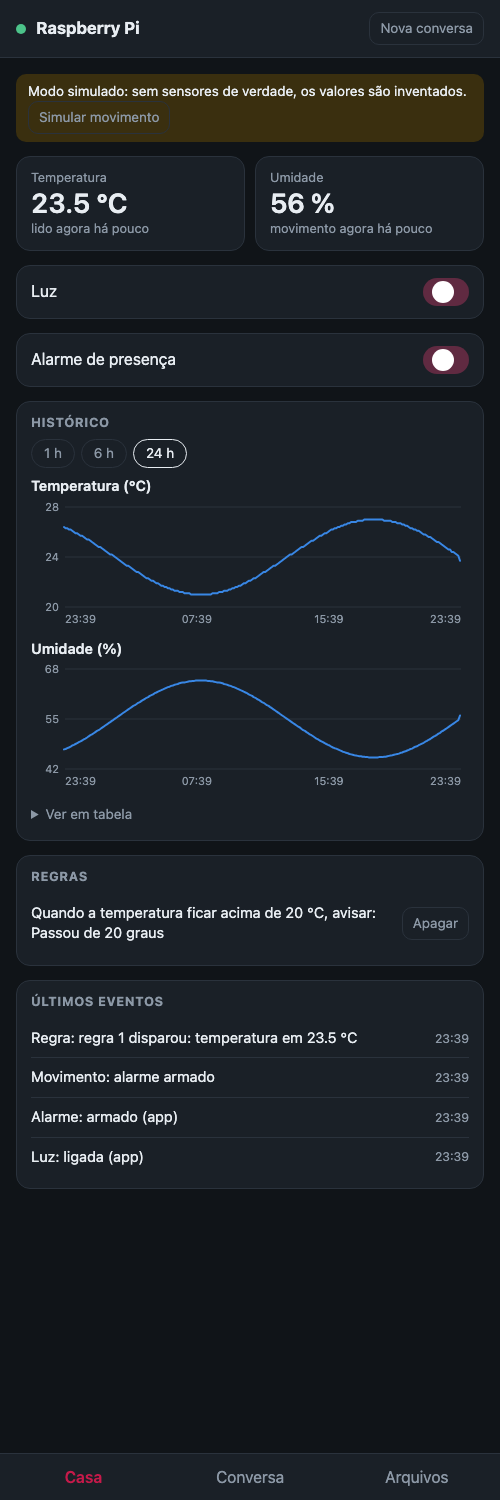
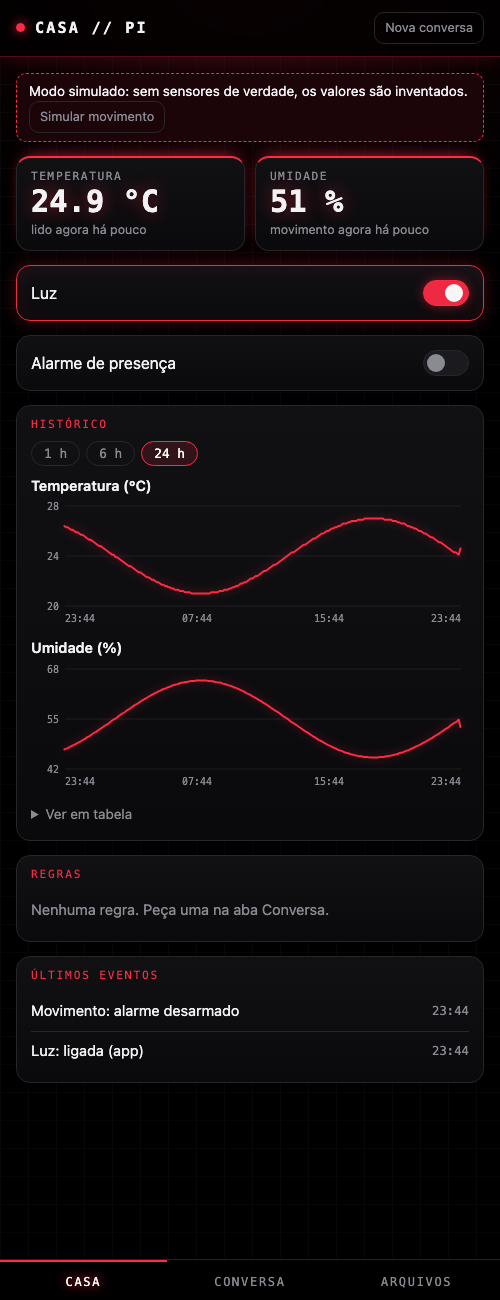
Tema escuro do app: preto com vermelho neon

diff --git a/pagina.html b/pagina.html
@@ -7,117 +7,136 @@
 <meta name="apple-mobile-web-app-capable" content="yes">
 <meta name="apple-mobile-web-app-title" content="Pi">
 <meta name="apple-mobile-web-app-status-bar-style" content="black-translucent">
-<meta name="theme-color" content="#101418">
+<meta name="theme-color" content="#000000">
 <title>Pi</title>
 <style>
   :root {
-    --fundo: #101418; --painel: #1a2027; --borda: #2a323c; --texto: #e8edf2; --fraco: #8c98a6;
-    --destaque: #c51a4a; --meu: #c51a4a; --aviso: #3a2f0f; --erro: #e5737b; --ok: #4cc38a;
-    --serie: #3987e5; --grade: #2a323c;
+    color-scheme: dark;
+    --fundo: #000000; --painel: #0a0a0c; --painel-2: #111114; --borda: #26262b; --borda-viva: #4d0f1a;
+    --texto: #f2f2f4; --fraco: #8a8a93;
+    --destaque: #ff2a45; --destaque-escuro: #b3001b; --brilho: rgba(255, 42, 69, .45);
+    --aviso: #1c0509; --erro: #ff6b7d; --serie: #ff2a45; --grade: #1e1e22;
+    --mono: ui-monospace, "SF Mono", Menlo, Consolas, monospace;
   }
-  @media (prefers-color-scheme: light) {
-    :root {
-      --fundo: #f4f5f7; --painel: #ffffff; --borda: #d9dde3; --texto: #171b21; --fraco: #667180;
-      --aviso: #fff3cf; --erro: #c0303b; --ok: #1f8f5c;
-      --serie: #2a78d6; --grade: #e3e6ea;
-    }
-  }
-  * { box-sizing: border-box; }
+  * { box-sizing: border-box; -webkit-tap-highlight-color: transparent; }
   html, body { height: 100%; margin: 0; }
   body {
-    font: 16px/1.4 system-ui, -apple-system, sans-serif; background: var(--fundo); color: var(--texto);
+    font: 16px/1.4 system-ui, -apple-system, sans-serif; color: var(--texto);
+    background:
+      radial-gradient(120% 60% at 50% -10%, rgba(255, 42, 69, .16), transparent 60%),
+      linear-gradient(rgba(255, 255, 255, .025) 1px, transparent 1px) 0 0 / 100% 28px,
+      linear-gradient(90deg, rgba(255, 255, 255, .025) 1px, transparent 1px) 0 0 / 28px 100%,
+      var(--fundo);
     display: flex; flex-direction: column; height: 100dvh; overflow: hidden;
   }
   header {
     display: flex; align-items: center; gap: 10px; padding: 12px 16px;
-    padding-top: calc(12px + env(safe-area-inset-top)); background: var(--painel); border-bottom: 1px solid var(--borda);
+    padding-top: calc(12px + env(safe-area-inset-top));
+    background: rgba(0, 0, 0, .75); backdrop-filter: blur(10px); -webkit-backdrop-filter: blur(10px);
+    border-bottom: 1px solid var(--borda-viva); box-shadow: 0 1px 18px rgba(255, 42, 69, .18);
   }
-  header h1 { font-size: 1.05rem; margin: 0; flex: 1; }
-  #ponto { width: 10px; height: 10px; border-radius: 50%; background: var(--fraco); }
-  #ponto.on { background: var(--ok); }
-  #ponto.off { background: var(--erro); }
-  button { font: inherit; color: inherit; border: 0; border-radius: 10px; padding: 10px 14px; background: var(--destaque); color: #fff; }
-  button.leve { background: transparent; color: var(--fraco); border: 1px solid var(--borda); padding: 6px 10px; font-size: .85rem; }
-  button:disabled { opacity: .45; }
+  header h1 { font: 600 .95rem var(--mono); letter-spacing: .14em; text-transform: uppercase; margin: 0; flex: 1; }
+  #ponto { width: 9px; height: 9px; border-radius: 50%; border: 1px solid var(--fraco); }
+  #ponto.on { background: var(--destaque); border-color: var(--destaque); box-shadow: 0 0 10px 2px var(--brilho); }
+  #ponto.off { background: transparent; border-color: var(--fraco); }
+  button {
+    font: inherit; color: #fff; border: 0; border-radius: 10px; padding: 10px 14px; cursor: pointer;
+    background: linear-gradient(180deg, var(--destaque), var(--destaque-escuro)); box-shadow: 0 0 14px var(--brilho);
+  }
+  button:active { filter: brightness(1.2); }
+  button.leve { background: transparent; box-shadow: none; color: var(--fraco); border: 1px solid var(--borda); padding: 6px 10px; font-size: .8rem; }
+  button:disabled { opacity: .4; box-shadow: none; }
   main { flex: 1; min-height: 0; display: flex; flex-direction: column; }
   .tela { flex: 1; min-height: 0; display: none; flex-direction: column; }
   .tela.ativa { display: flex; }
 
+  /* Conversa */
   #conversa { flex: 1; overflow-y: auto; padding: 16px; display: flex; flex-direction: column; gap: 8px; -webkit-overflow-scrolling: touch; }
-  .bolha { max-width: 85%; padding: 9px 13px; border-radius: 16px; white-space: pre-wrap; overflow-wrap: anywhere; }
-  .usuario { align-self: flex-end; background: var(--meu); color: #fff; border-bottom-right-radius: 4px; }
-  .agente { align-self: flex-start; background: var(--painel); border: 1px solid var(--borda); border-bottom-left-radius: 4px; }
-  .aviso { align-self: stretch; max-width: none; background: var(--aviso); border-radius: 12px; }
-  .aviso::before { content: "Aviso do Pi"; display: block; font-size: .75rem; color: var(--fraco); }
-  .erro { align-self: stretch; max-width: none; color: var(--erro); border: 1px solid var(--erro); border-radius: 12px; }
-  .nota { align-self: center; font-size: .8rem; color: var(--fraco); }
-  .cartao { align-self: stretch; background: var(--painel); border: 1px solid var(--borda); border-radius: 12px; padding: 12px; }
+  .bolha { max-width: 85%; padding: 9px 13px; border-radius: 14px; white-space: pre-wrap; overflow-wrap: anywhere; }
+  .usuario { align-self: flex-end; color: #fff; border-bottom-right-radius: 3px;
+             background: linear-gradient(180deg, var(--destaque), var(--destaque-escuro)); box-shadow: 0 0 16px var(--brilho); }
+  .agente { align-self: flex-start; background: var(--painel-2); border: 1px solid var(--borda); border-left: 2px solid var(--destaque); border-bottom-left-radius: 3px; }
+  .aviso { align-self: stretch; max-width: none; background: var(--aviso); border: 1px solid var(--destaque); border-radius: 12px; box-shadow: 0 0 18px rgba(255, 42, 69, .25); }
+  .aviso::before { content: "AVISO DO PI"; display: block; font: .7rem var(--mono); letter-spacing: .12em; color: var(--destaque); margin-bottom: 2px; }
+  .erro { align-self: stretch; max-width: none; color: var(--erro); background: transparent; border: 1px dashed var(--erro); border-radius: 12px; }
+  .nota { align-self: center; font: .75rem var(--mono); color: var(--fraco); }
+  .cartao { align-self: stretch; background: var(--painel-2); border: 1px solid var(--borda-viva); border-radius: 12px; padding: 12px; }
   .cartao .acoes { display: flex; gap: 8px; margin-top: 10px; }
   .cartao .acoes button { flex: 1; }
-  .cartao .negar { background: transparent; color: var(--texto); border: 1px solid var(--borda); }
+  .cartao .negar { background: transparent; box-shadow: none; color: var(--texto); border: 1px solid var(--borda); }
   #vazio { margin: auto; text-align: center; color: var(--fraco); padding: 0 24px; }
 
   #atalhos { display: flex; gap: 8px; overflow-x: auto; padding: 0 16px 8px; scrollbar-width: none; }
   #atalhos::-webkit-scrollbar { display: none; }
-  #atalhos button { white-space: nowrap; background: var(--painel); color: var(--texto); border: 1px solid var(--borda); border-radius: 999px; padding: 7px 12px; font-size: .9rem; }
+  #atalhos button { white-space: nowrap; background: var(--painel); box-shadow: none; color: var(--texto); border: 1px solid var(--borda-viva); border-radius: 999px; padding: 7px 12px; font-size: .9rem; }
   #escrever { display: flex; gap: 8px; padding: 8px 16px 12px; }
-  #texto { flex: 1; min-width: 0; font: inherit; color: inherit; background: var(--painel); border: 1px solid var(--borda); border-radius: 999px; padding: 10px 16px; }
+  #texto { flex: 1; min-width: 0; font: inherit; color: inherit; background: var(--painel); border: 1px solid var(--borda); border-radius: 999px; padding: 10px 16px; outline: none; }
+  #texto:focus { border-color: var(--destaque); box-shadow: 0 0 0 3px rgba(255, 42, 69, .18); }
+  #texto::placeholder { color: var(--fraco); }
 
+  /* Títulos de seção, comuns às abas Casa e Arquivos */
+  #casa h2, #arquivos h2 { font: .7rem var(--mono); text-transform: uppercase; letter-spacing: .16em; color: var(--destaque); margin: 0 0 10px; }
+
+  /* Arquivos */
   #arquivos { padding: 16px; overflow-y: auto; gap: 18px; }
-  #arquivos h2 { font-size: .8rem; text-transform: uppercase; letter-spacing: .05em; color: var(--fraco); margin: 0 0 8px; }
-  #arquivos input[type=text] { width: 100%; font: inherit; color: inherit; background: var(--painel); border: 1px solid var(--borda); border-radius: 10px; padding: 10px 12px; }
+  #arquivos input[type=text] { width: 100%; font: inherit; color: inherit; background: var(--painel); border: 1px solid var(--borda); border-radius: 10px; padding: 10px 12px; outline: none; }
+  #arquivos input[type=text]:focus { border-color: var(--destaque); }
   #arquivos input[type=file] { width: 100%; margin-bottom: 10px; color: var(--fraco); }
   #lista { list-style: none; margin: 0; padding: 0; }
   #lista li { display: flex; justify-content: space-between; gap: 12px; padding: 10px 0; border-bottom: 1px solid var(--borda); overflow-wrap: anywhere; }
   #lista small, #resultado { color: var(--fraco); white-space: nowrap; }
 
+  /* Casa */
   #casa { padding: 16px; overflow-y: auto; gap: 14px; -webkit-overflow-scrolling: touch; }
-  #casa h2 { font-size: .8rem; text-transform: uppercase; letter-spacing: .05em; color: var(--fraco); margin: 0 0 8px; }
   .grade { display: grid; grid-template-columns: 1fr 1fr; gap: 10px; }
-  .painel { background: var(--painel); border: 1px solid var(--borda); border-radius: 14px; padding: 12px 14px; }
-  .painel .rotulo { font-size: .8rem; color: var(--fraco); }
-  .painel .valor { font-size: 1.7rem; font-weight: 600; line-height: 1.2; font-variant-numeric: tabular-nums; }
-  .painel .sub { font-size: .8rem; color: var(--fraco); }
+  .painel { background: linear-gradient(180deg, var(--painel-2), var(--painel)); border: 1px solid var(--borda); border-radius: 14px; padding: 12px 14px; }
+  .grade .painel { border-top: 2px solid var(--destaque); box-shadow: 0 -6px 18px -10px var(--destaque); }
+  .painel .rotulo { font: .7rem var(--mono); text-transform: uppercase; letter-spacing: .14em; color: var(--fraco); }
+  .painel .valor { font: 600 1.9rem/1.25 var(--mono); font-variant-numeric: tabular-nums; text-shadow: 0 0 18px var(--brilho); }
+  .painel .sub { font-size: .78rem; color: var(--fraco); }
   .chave { display: flex; align-items: center; justify-content: space-between; gap: 10px; width: 100%; text-align: left;
-           background: var(--painel); color: var(--texto); border: 1px solid var(--borda); border-radius: 14px; padding: 12px 14px; }
-  .chave .trilho { flex: none; width: 46px; height: 28px; border-radius: 999px; background: var(--borda); position: relative; transition: background .15s; }
-  .chave .trilho::after { content: ""; position: absolute; top: 3px; left: 3px; width: 22px; height: 22px; border-radius: 50%; background: #fff; transition: left .15s; }
-  .chave[aria-checked=true] .trilho { background: var(--destaque); }
-  .chave[aria-checked=true] .trilho::after { left: 21px; }
-  #simulado { background: var(--aviso); border-radius: 10px; padding: 8px 12px; font-size: .85rem; }
-  #periodo { display: flex; gap: 6px; margin-bottom: 8px; }
-  #periodo button { background: transparent; color: var(--fraco); border: 1px solid var(--borda); border-radius: 999px; padding: 4px 12px; font-size: .85rem; }
-  #periodo button.ativa { color: var(--texto); border-color: var(--texto); }
+           background: linear-gradient(180deg, var(--painel-2), var(--painel)); box-shadow: none; color: var(--texto);
+           border: 1px solid var(--borda); border-radius: 14px; padding: 14px; transition: border-color .15s, box-shadow .15s; }
+  .chave[aria-checked=true] { border-color: var(--destaque); box-shadow: 0 0 20px rgba(255, 42, 69, .28), inset 0 0 24px rgba(255, 42, 69, .08); }
+  .chave .trilho { flex: none; width: 46px; height: 26px; border-radius: 999px; background: #1b1b1f; border: 1px solid var(--borda); position: relative; transition: background .15s; }
+  .chave .trilho::after { content: ""; position: absolute; top: 3px; left: 3px; width: 18px; height: 18px; border-radius: 50%; background: var(--fraco); transition: left .15s, background .15s; }
+  .chave[aria-checked=true] .trilho { background: var(--destaque); border-color: var(--destaque); box-shadow: 0 0 12px var(--brilho); }
+  .chave[aria-checked=true] .trilho::after { left: 23px; background: #fff; }
+  #simulado { background: var(--aviso); border: 1px dashed var(--destaque); border-radius: 10px; padding: 8px 12px; font-size: .85rem; }
+  #periodo { display: flex; gap: 6px; margin-bottom: 10px; }
+  #periodo button { background: transparent; box-shadow: none; color: var(--fraco); border: 1px solid var(--borda); border-radius: 999px; padding: 4px 12px; font: .8rem var(--mono); }
+  #periodo button.ativa { color: #fff; border-color: var(--destaque); background: rgba(255, 42, 69, .14); }
   .grafico { position: relative; margin-bottom: 10px; }
   .grafico h3 { font-size: .9rem; font-weight: 600; margin: 0 0 2px; }
-  .grafico svg { display: block; width: 100%; height: 130px; touch-action: pan-y; }
-  .grafico text { fill: var(--fraco); font-size: 11px; }
-  .grafico .linha { fill: none; stroke: var(--serie); stroke-width: 2; stroke-linejoin: round; stroke-linecap: round; }
+  .grafico svg { display: block; width: 100%; height: 130px; touch-action: pan-y; overflow: visible; }
+  .grafico text { fill: var(--fraco); font: 10px var(--mono); }
+  .grafico .linha { fill: none; stroke: var(--serie); stroke-width: 2; stroke-linejoin: round; stroke-linecap: round; filter: drop-shadow(0 0 5px var(--brilho)); }
   .grafico .eixo { stroke: var(--grade); stroke-width: 1; }
   .grafico .mira { stroke: var(--fraco); stroke-width: 1; }
   .grafico .ponto { fill: var(--serie); stroke: var(--painel); stroke-width: 2; }
-  .dica { position: absolute; top: 0; right: 0; font-size: .8rem; color: var(--texto); font-variant-numeric: tabular-nums; }
+  .dica { position: absolute; top: 0; right: 0; font: .78rem var(--mono); color: var(--texto); }
   .vazio { color: var(--fraco); font-size: .9rem; padding: 8px 0; }
   .lista { list-style: none; margin: 0; padding: 0; }
   .lista li { display: flex; justify-content: space-between; align-items: center; gap: 12px; padding: 9px 0; border-bottom: 1px solid var(--borda); font-size: .92rem; }
   .lista li:last-child { border-bottom: 0; }
-  .lista small { color: var(--fraco); white-space: nowrap; }
+  .lista small { color: var(--fraco); white-space: nowrap; font-family: var(--mono); }
   details summary { color: var(--fraco); font-size: .85rem; padding: 4px 0; }
-  table { width: 100%; border-collapse: collapse; font-size: .85rem; font-variant-numeric: tabular-nums; }
+  table { width: 100%; border-collapse: collapse; font: .8rem var(--mono); }
   th, td { text-align: left; padding: 5px 0; border-bottom: 1px solid var(--borda); font-weight: 400; }
   th { color: var(--fraco); }
   #faixa { position: fixed; left: 12px; right: 12px; top: calc(8px + env(safe-area-inset-top)); z-index: 5; background: var(--aviso);
-           border: 1px solid var(--borda); border-radius: 12px; padding: 12px 14px; box-shadow: 0 6px 20px rgba(0,0,0,.3); }
+           border: 1px solid var(--destaque); border-radius: 12px; padding: 12px 14px; box-shadow: 0 0 28px var(--brilho); }
 
-  nav { display: flex; background: var(--painel); border-top: 1px solid var(--borda); padding-bottom: env(safe-area-inset-bottom); }
-  nav button { flex: 1; background: transparent; color: var(--fraco); border-radius: 0; padding: 12px; }
-  nav button.ativa { color: var(--destaque); font-weight: 600; }
+  nav { display: flex; background: rgba(0, 0, 0, .85); border-top: 1px solid var(--borda-viva); padding-bottom: env(safe-area-inset-bottom); }
+  nav button { flex: 1; background: transparent; box-shadow: none; color: var(--fraco); border-radius: 0; padding: 13px 12px 11px;
+               font: .75rem var(--mono); letter-spacing: .14em; text-transform: uppercase; border-top: 2px solid transparent; }
+  nav button.ativa { color: #fff; border-top-color: var(--destaque); text-shadow: 0 0 12px var(--destaque); }
 </style>
 </head>
 <body>
 <header>
   <span id="ponto"></span>
-  <h1>Raspberry Pi</h1>
+  <h1>Casa // Pi</h1>
   <button class="leve" id="nova">Nova conversa</button>
 </header>
 
